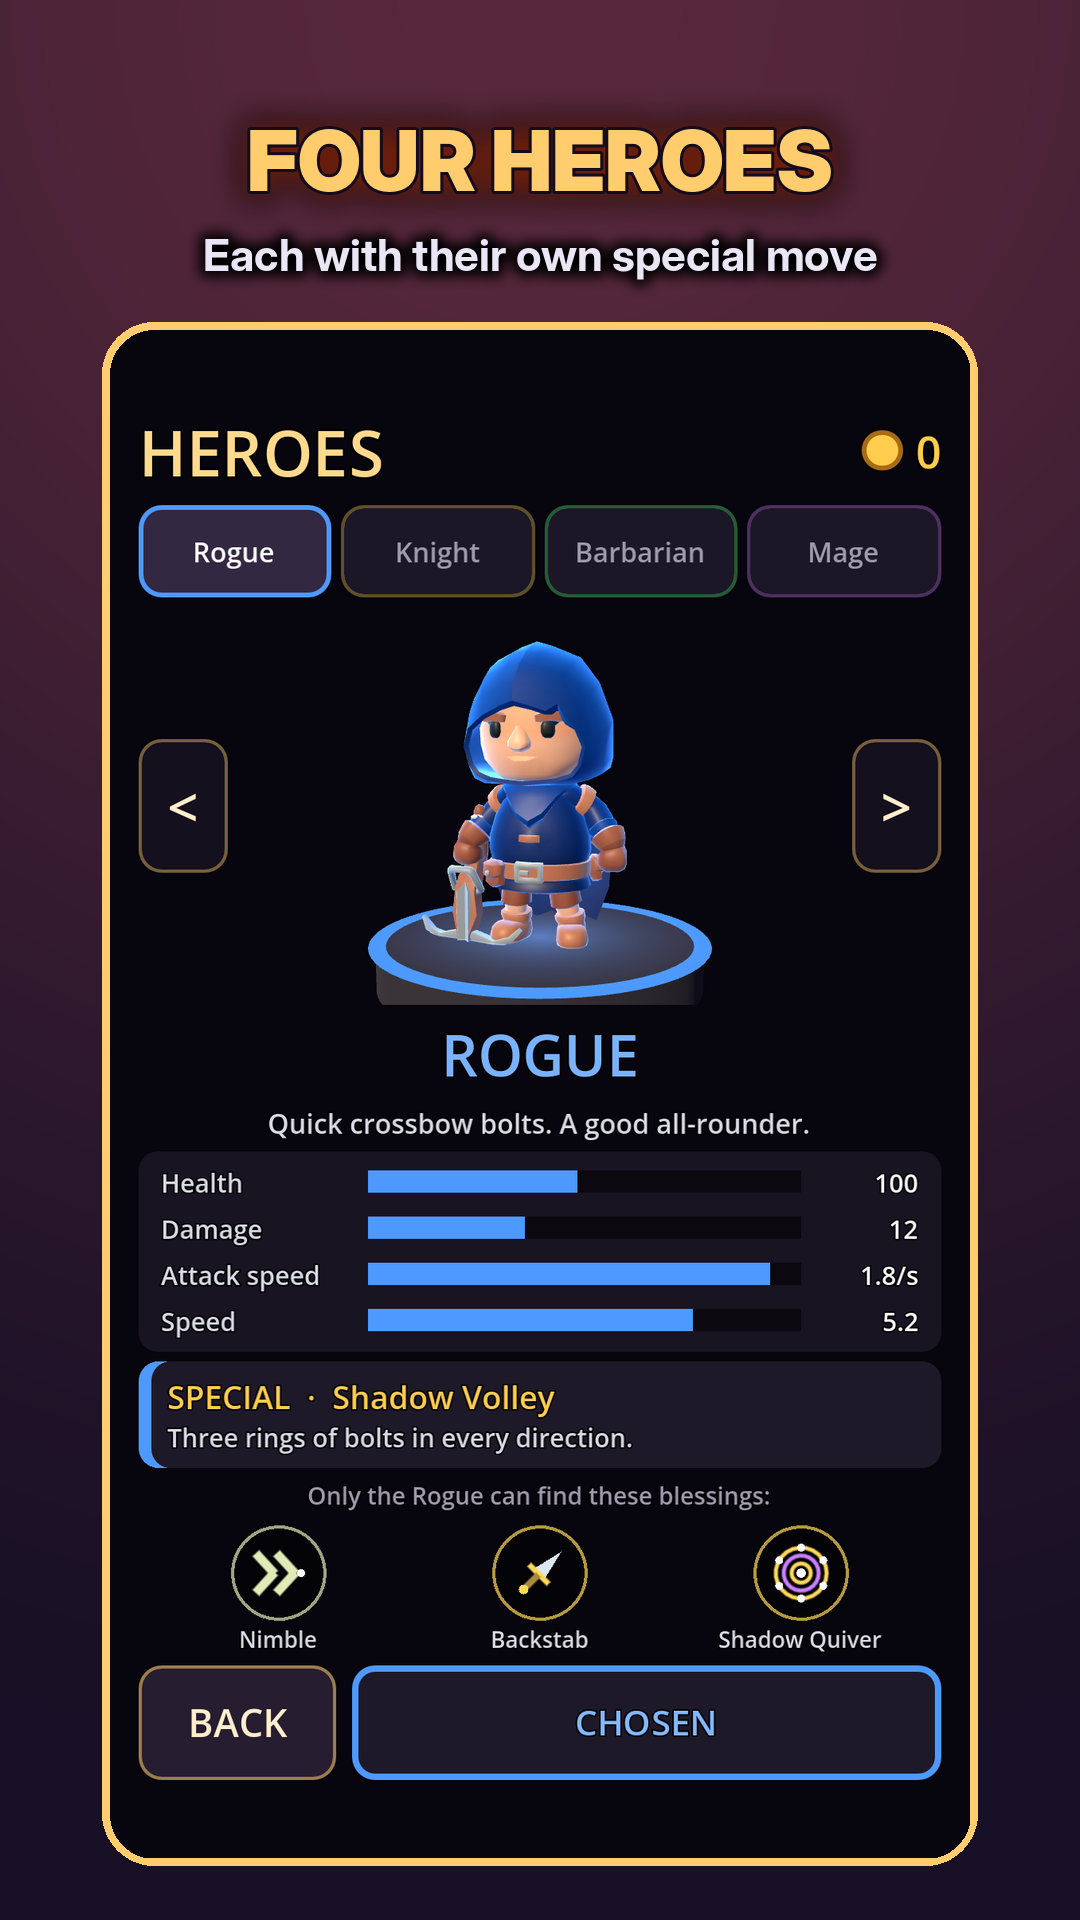
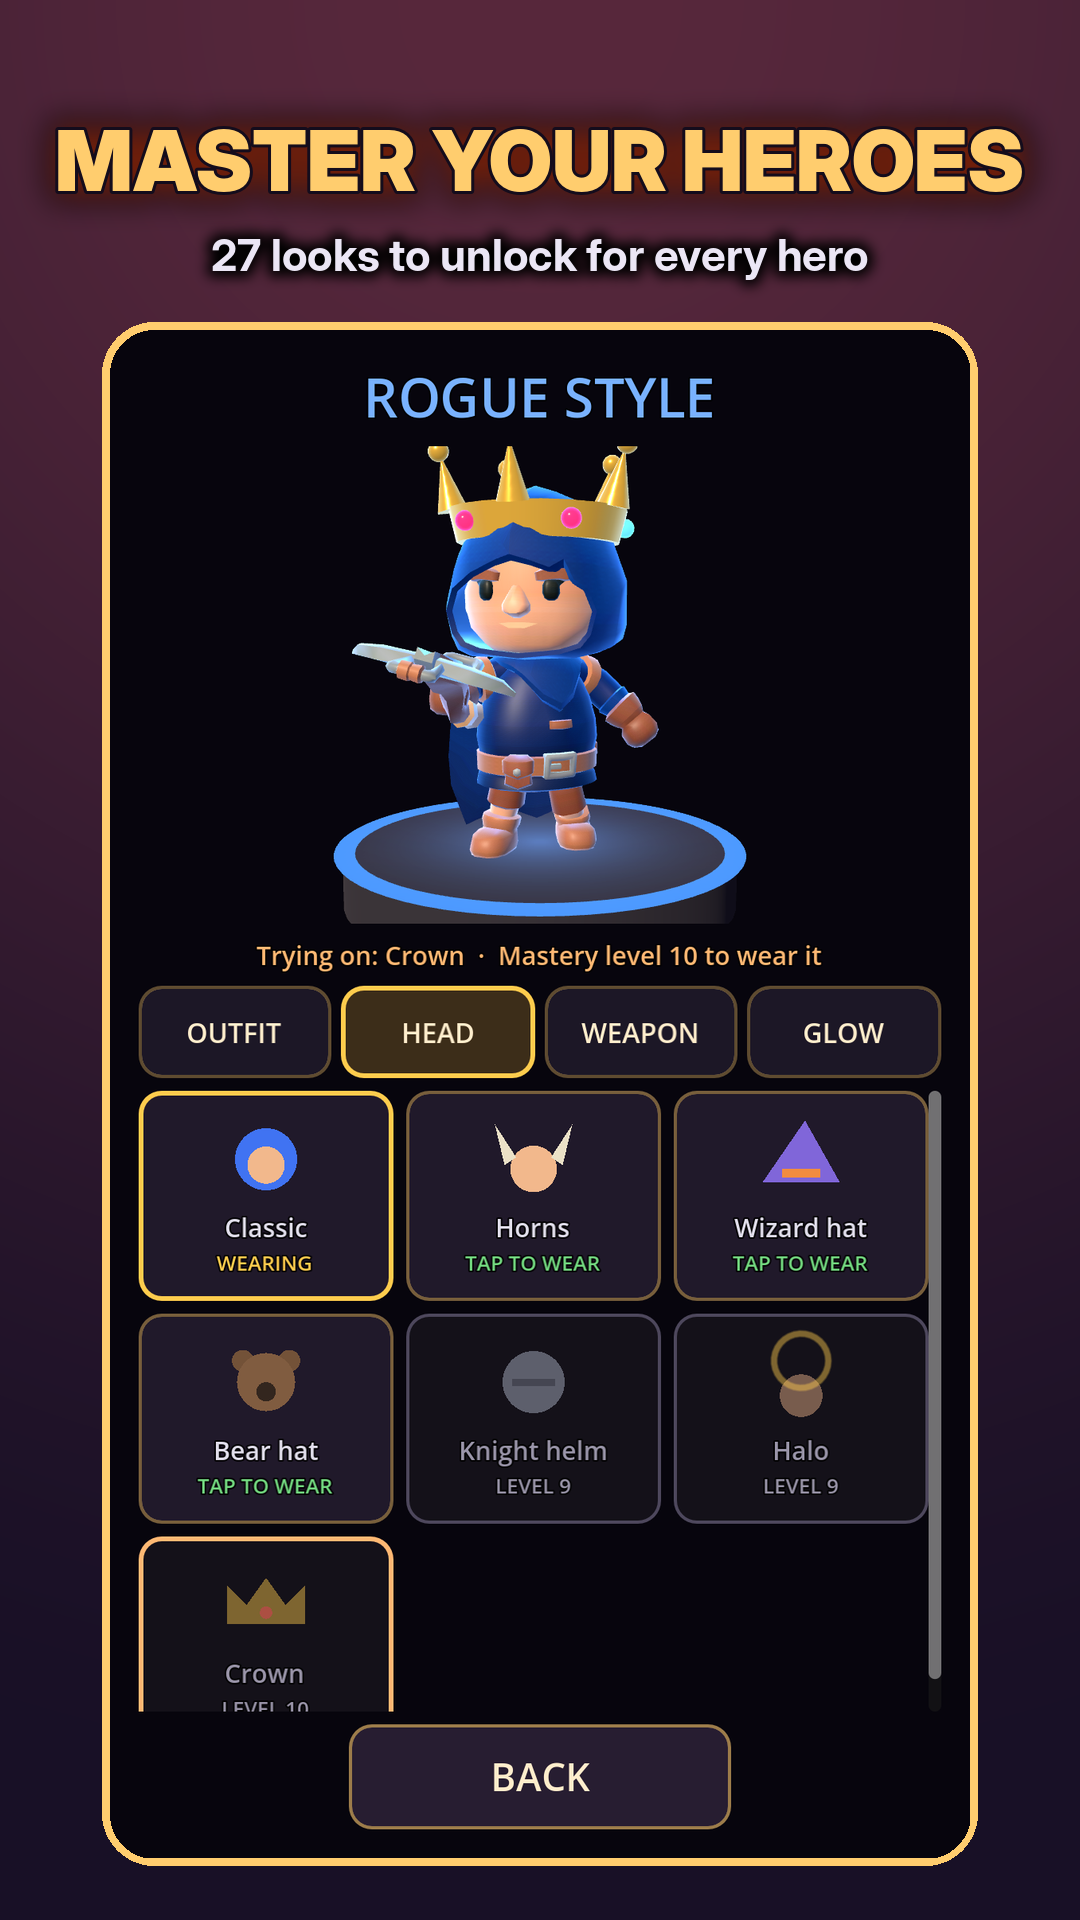
Before-launch fixes from the v98 critics' review (version 99)
- Master worth chasing: a sculpted gold crown worn over the hero's own hat,
  a shimmer of gold sparkles and a gold dash trail for Masters, and the
  Mastery title (Master Knight) on the share text and picture.
- SEE N NEW LOOKS on the end screen after a Mastery level: opens Style with
  that level's new looks tried on.
- Looks readable from above: brighter Knight armour tints, bigger horns on
  the Mage hat, darker Crimson and softer Rose (away from enemy red).
- Curse rewards labelled "Curse title"; DESCEND TO FLOOR N is a real button.
- Heroes-screen reward line shortens to fit; a chosen glow beats Curse
  gold bolts; Gilded outfit name; stale Mastery comment.
- Skeleton Warriors: a warned axe swing instead of plain touch damage.
- Store: Mastery paragraph, "lift your thumb to fire", screenshot 7 now
  shows the Style screen (Master your heroes).
- BUILD 2026-11-07b.

Claude-Session: https://claude.ai/code/session_011dCkZfSyMufLvisEdWMgRS

diff --git a/tools/store/compose.py b/tools/store/compose.py
@@ -30,7 +30,7 @@ SHOTS = [
     ("blessings", "A NEW BUILD EVERY RUN", "Fire, frost, bolts and bone blessings"),
     ("lich", "OUTSMART THE LICH", "Read the warnings, dash, strike back"),
     ("tide", "THE DROWNED VAULT", "Crypt Pass: face the Tidecaller below"),
-    ("heroes", "FOUR HEROES", "Each with their own special move"),
+    ("mastery", "MASTER YOUR HEROES", "27 looks to unlock for every hero"),
     ("daily", "A NEW CRYPT EVERY DAY", "The same rooms for everyone, then share"),
 ]
 

diff --git a/store/listing.md b/store/listing.md
@@ -12,7 +12,7 @@ One-thumb dungeon roguelite: dash through shots, chain kills, break the crypt.
 
 Dash through danger. Chain your kills. Break the crypt.
 
-Bone Chain is a fast, one-thumb dungeon roguelite. Drag to move, stand still to fire, and fight your way down through a crypt full of skeletons one room at a time. Every run is different, and every floor is harder than the last.
+Bone Chain is a fast, one-thumb dungeon roguelite. Drag to move, lift your thumb to fire, and fight your way down through a crypt full of skeletons one room at a time. Every run is different, and every floor is harder than the last.
 
 GRAVE DASH
 Flick your thumb to dash. Dash through an enemy shot just before it hits and time slows down, the bullets around you shatter, and your hero fires a ring of bolts straight back. Master the perfect dodge and nothing can touch you.
@@ -28,6 +28,9 @@ FOUR HEROES, FOUR SPECIAL MOVES
 - Knight: armoured sword waves and a stunning Shield Slam.
 - Barbarian: heavy thrown axes and a healing Whirlwind.
 - Mage: exploding magic orbs and a rain of Meteors.
+
+MASTER YOUR HEROES
+Every room you clear and every boss you beat gives your hero Mastery, and it is never lost. Ten Mastery levels per hero bring coins, Bone Drops, titles (Adept, Veteran, Master) and 27 looks to unlock: new outfits, hats, weapons and glows, so your Mage can look completely different from anyone else's. Reach Master for a golden crown and a trail of gold sparkles.
 
 A CRYPT THAT FIGHTS BACK
 Skeleton warriors, archers, mages, bombers, spitters and bone spiders, plus golden elites. At the bottom of each floor waits a boss: the Skeleton King, the Lich or the Cinder Colossus. Descend through the Bone Crypt, the Frozen Ossuary and the Ember Catacomb, each with its own skeletons: floating Frost Wraiths that fire ice beams and burning Cinder Skeletons that leave fire in their path.
@@ -80,7 +83,7 @@ This link is pinned to one saved version of the policy, so it keeps working even
     4. [screenshot-4.png](https://github.com/incorruptibleyt/AAA-GAME-DESIGN/raw/claude/project-thread-j5ioix/store/screenshot-4.png): A new build every run
     5. [screenshot-5.png](https://github.com/incorruptibleyt/AAA-GAME-DESIGN/raw/claude/project-thread-j5ioix/store/screenshot-5.png): Outsmart the Lich
     6. [screenshot-6.png](https://github.com/incorruptibleyt/AAA-GAME-DESIGN/raw/claude/project-thread-j5ioix/store/screenshot-6.png): The Drowned Vault (Crypt Pass, Tidecaller)
-    7. [screenshot-7.png](https://github.com/incorruptibleyt/AAA-GAME-DESIGN/raw/claude/project-thread-j5ioix/store/screenshot-7.png): Four heroes
+    7. [screenshot-7.png](https://github.com/incorruptibleyt/AAA-GAME-DESIGN/raw/claude/project-thread-j5ioix/store/screenshot-7.png): Master your heroes (Mastery and 27 looks each)
     8. [screenshot-8.png](https://github.com/incorruptibleyt/AAA-GAME-DESIGN/raw/claude/project-thread-j5ioix/store/screenshot-8.png): A new crypt every day
 
 The icon, banner and screenshots are made by tools/store/render_art.gd and tools/store/compose.py.
